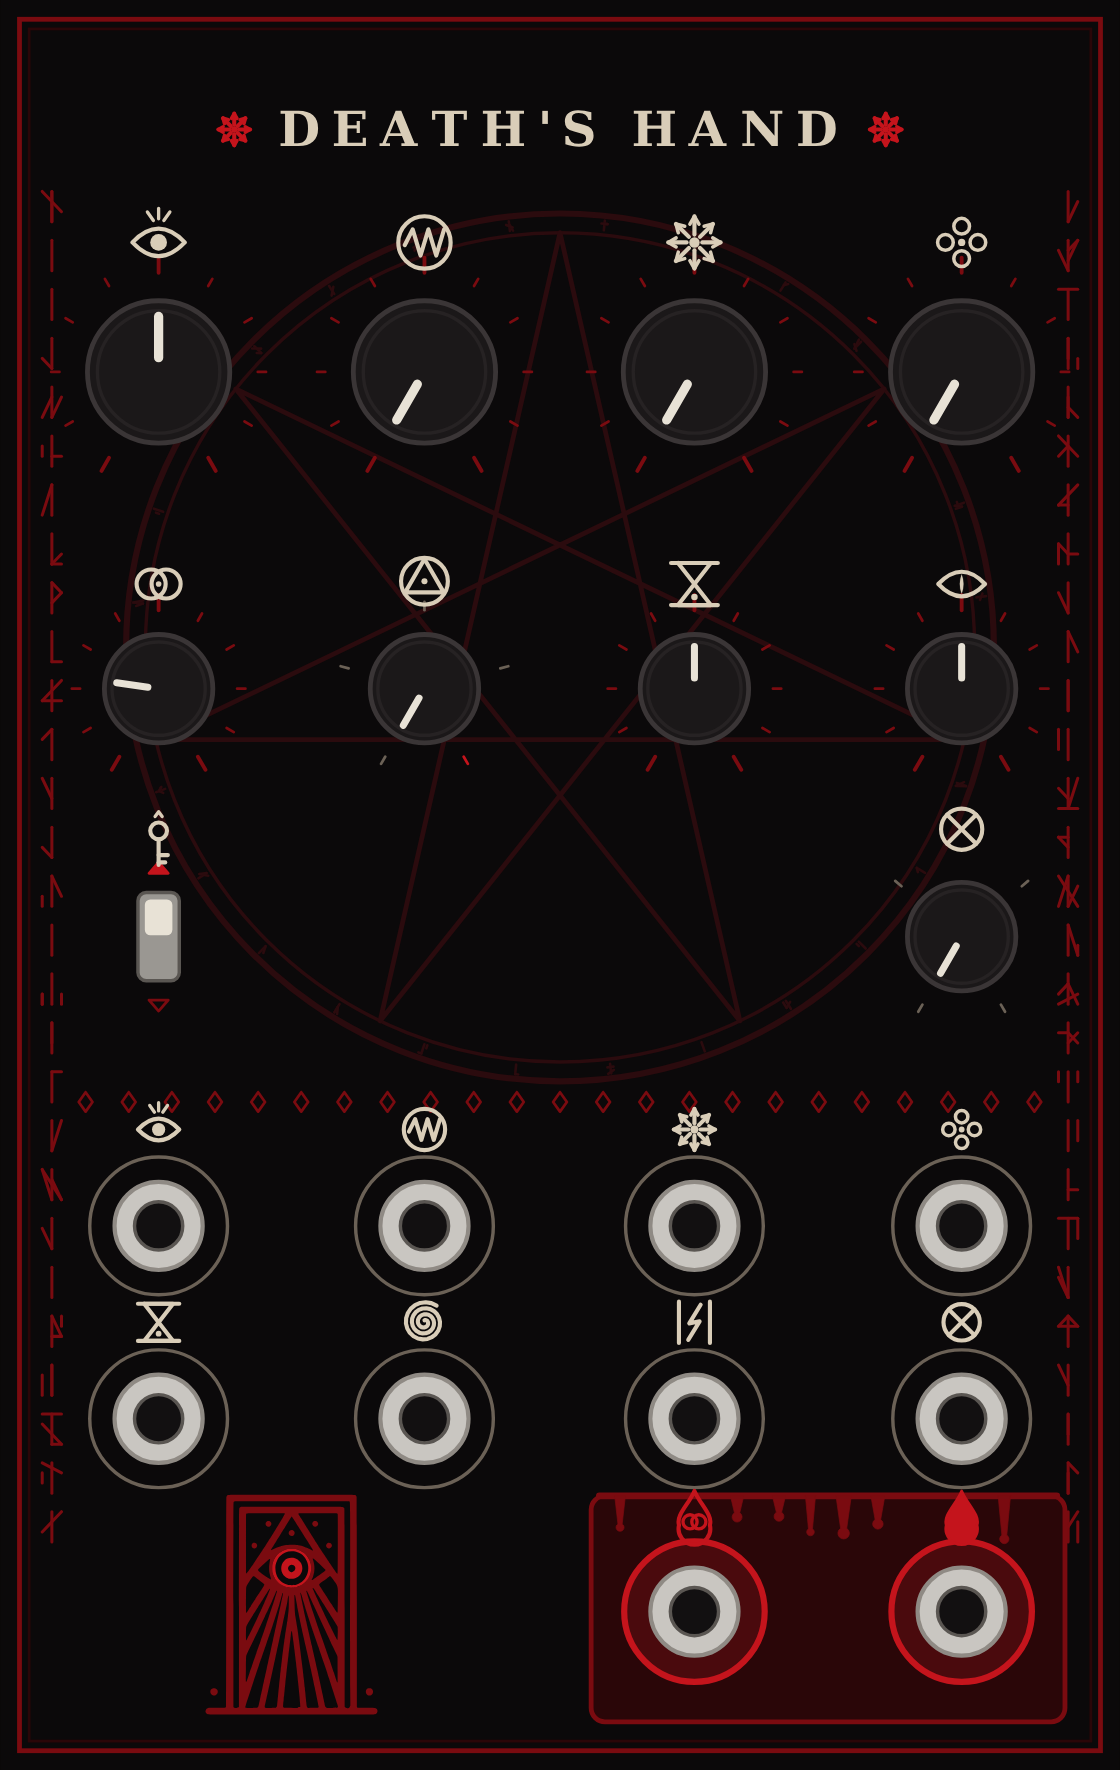
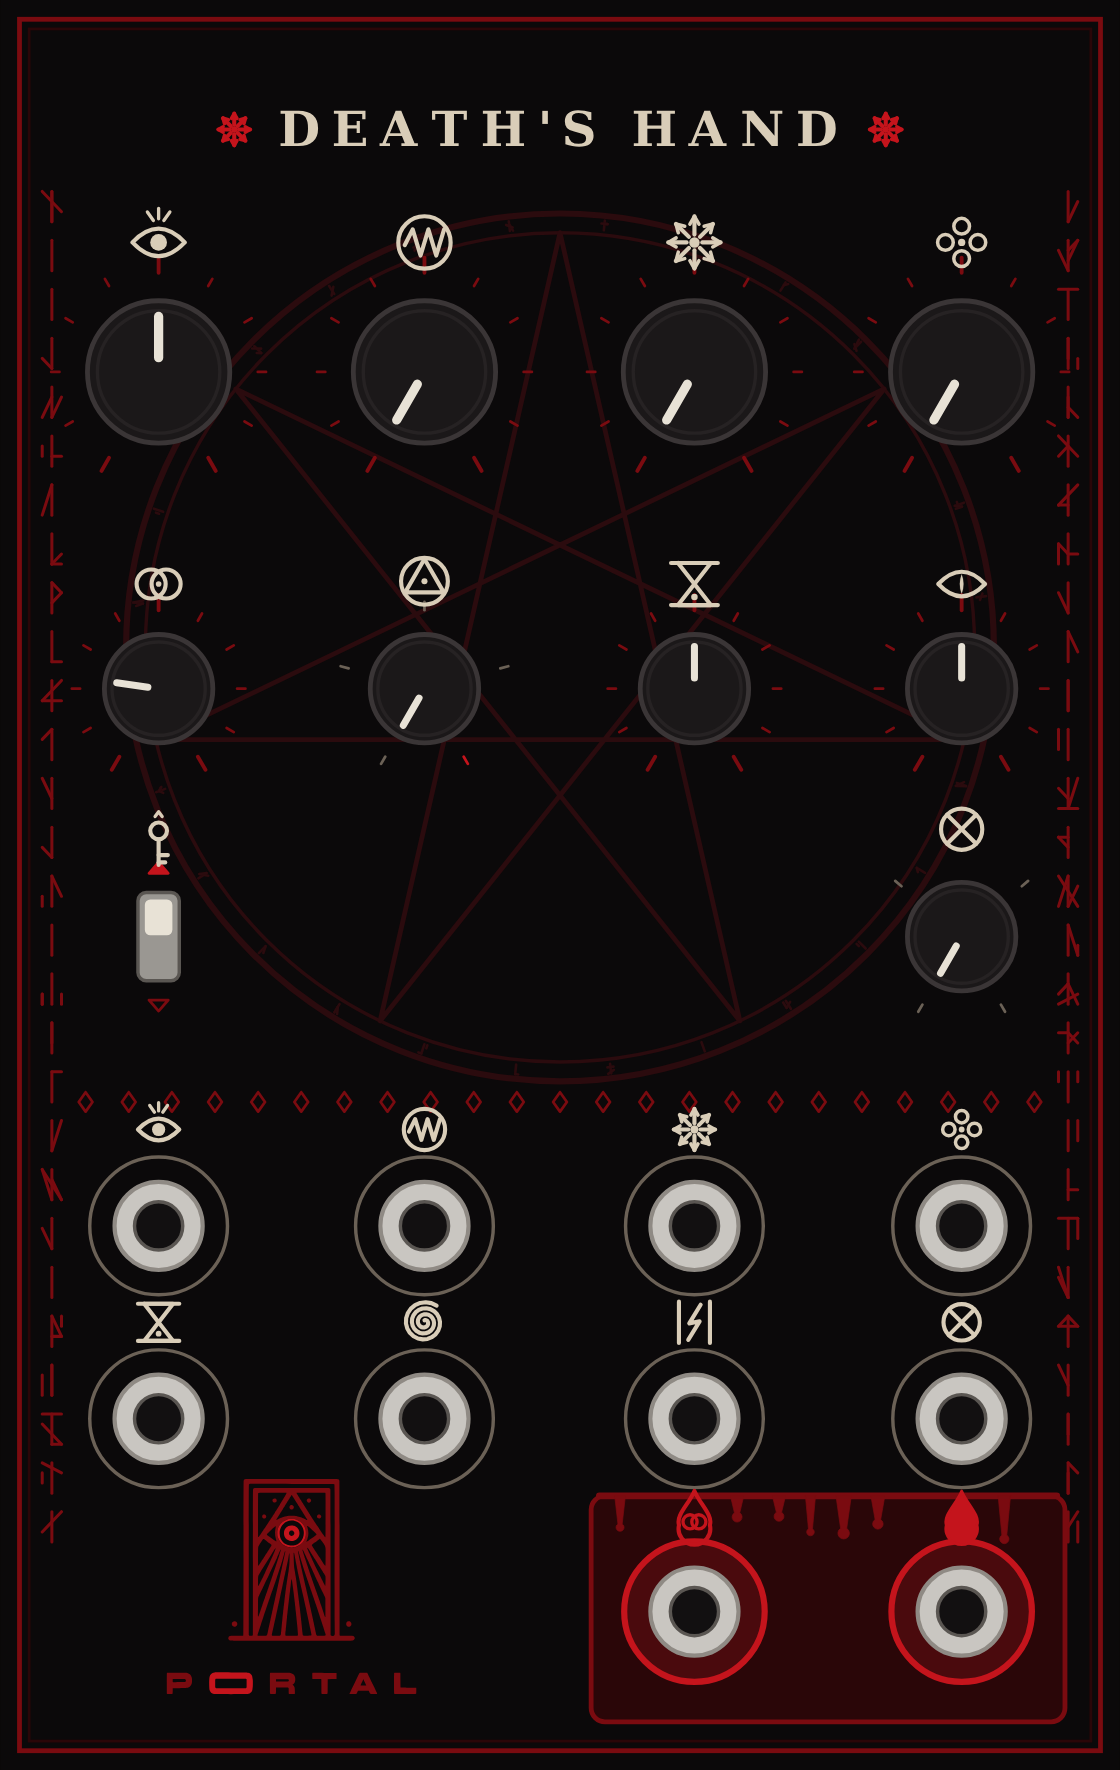
feat: Portal Electronics is the maker; the hand stays Death's Hand's mark
Death's Hand keeps its own mark, the hand. Portal Electronics, the
company, gets its own: the door and the PORTAL wordmark, both traced to
SVG from the original artwork (docs/assets/site/portal.svg and
portal-wordmark.svg) and recoloured bone with blood-red accents.

- Module panel: the door over the wordmark as the maker's mark, read
  from the site's SVGs so they can't drift.
- VCV Rack: plugin.json brand is Portal Electronics.
- Site: a Portal Electronics lockup above the title in the hero, a
  credit in the closing section, and the footer.
- README banner and social card: the same lockup as the maker credit.

Claude-Session: https://claude.ai/code/session_019bjhyBVt8RvJXeHgmiiuiY

Changed region(s): [[0.1562, 0.839, 0.375, 0.9944]]

diff --git a/docs/assets/site/landing.css b/docs/assets/site/landing.css
@@ -387,7 +387,7 @@
   mask-image: radial-gradient(ellipse 60% 70% at 50% 45%, #000 15%, transparent 70%);
   -webkit-mask-image: radial-gradient(ellipse 60% 70% at 50% 45%, #000 15%, transparent 70%);
 }
-.lp-final__logo { width: auto; height: 5.5rem; margin-bottom: 1rem; animation: lp-float 6s ease-in-out infinite; }
+.lp-final__logo { width: 4.2rem; height: 4.2rem; margin-bottom: 1rem; animation: lp-float 6s ease-in-out infinite; }
 
 /* The occult layer: engraved capitals, rune columns, the summoning circle. */
 .md-header__title, .lp-title, .lp h2, .lp-panel h3, .lp-pillar h3, .lp-card h3, .lp-steps h4, .lp-doc b,
@@ -417,8 +417,14 @@
 }
 .lp-final .lp-sigil { left: 50%; top: 50%; width: 36rem; height: 36rem; margin: -18rem 0 0 -18rem; }
 .lp-hero__logo, .lp-final__logo { filter: drop-shadow(0 0 22px color-mix(in srgb, var(--brand) 40%, transparent)) drop-shadow(0 14px 24px rgba(0, 0, 0, 0.55)); }
-.lp-hero__logo { width: auto; height: 7.5rem; }
+.lp-hero__logo { width: 6rem; height: 6rem; }
 .lp-term__bar i:first-child { background: var(--brand-3); }
+
+/* The maker's lockup in the hero: Portal Electronics' door and wordmark. */
+.lp-maker { display: flex; align-items: center; gap: 0.55rem; }
+.lp-maker__door { height: 1.55rem; width: auto; }
+.lp-maker__word { height: 0.62rem; width: auto; }
+.lp-maker span { font-family: var(--md-text-font-family, Inter, sans-serif); font-size: 0.55rem; font-weight: 600; letter-spacing: 0.42em; text-transform: uppercase; color: var(--mist); }
 
 /* The panel and its sigil decoder. */
 .lp-panelart { display: flex; justify-content: center; }

diff --git a/overrides/home.html b/overrides/home.html
@@ -16,7 +16,7 @@
     <div class="lp-wrap lp-hero__inner">
       <div>
         <img class="lp-hero__logo" src="{{ 'assets/site/logo.svg' | url }}" alt="">
-        <p class="lp-kicker">rossedman/deaths-hand</p>
+        <p class="lp-kicker lp-maker"><img class="lp-maker__door" src="{{ 'assets/site/portal.svg' | url }}" alt=""><img class="lp-maker__word" src="{{ 'assets/site/portal-wordmark.svg' | url }}" alt="Portal"><span>Electronics</span></p>
         <h1 class="lp-title">Death's Hand<small>Two oscillators. One will. No mercy.</small></h1>
         <p class="lp-tagline">An evil West-Coast complex oscillator for the <b>Electrosmith patch.Init</b> and <b>VCV Rack</b>: through-zero FM, a wavefolder, ring mod, self-feedback, chaos and a Lorenz heart. <b>One DSP core, measured to the cent.</b></p>
         <div class="lp-install">
@@ -234,7 +234,7 @@ make analyze</code></pre>
     <div class="lp-wrap">
       <img class="lp-final__logo" src="{{ 'assets/site/logo.svg' | url }}" alt="">
       <h2>Give it your hand.</h2>
-      <p class="lp-lede lp-lede--center">Free and open source under the MIT license.</p>
+      <p class="lp-lede lp-lede--center">A Portal Electronics module. Free and open source under the MIT license.</p>
       <div class="lp-cta lp-cta--center">
         <a class="lp-btn lp-btn--primary" href="{{ 'getting-started/' | url }}">Summon it {% include ".icons/material/arrow-right.svg" %}</a>
         <a class="lp-btn" href="{{ gh }}">{% include ".icons/material/source-repository.svg" %} View on GitHub</a>

diff --git a/docs/assets/src/social-preview.html b/docs/assets/src/social-preview.html
@@ -9,11 +9,12 @@
   }
   .sigil { width: 600px; height: 600px; left: 340px; top: -40px; opacity: 0.14; }
   .wrap { position: absolute; inset: 0; display: flex; flex-direction: column; align-items: center; justify-content: center; text-align: center; }
-  .logo { width: auto; height: 270px; filter: drop-shadow(0 0 34px rgba(232,54,63,0.4)) drop-shadow(0 20px 34px rgba(0,0,0,0.6)); }
+  .logo { width: 230px; height: 230px; filter: drop-shadow(0 0 34px rgba(232,54,63,0.4)) drop-shadow(0 20px 34px rgba(0,0,0,0.6)); }
   h1 { margin-top: 26px; font-size: 76px; line-height: 1; color: var(--cream); text-shadow: 0 0 30px rgba(232,54,63,0.3); }
   .promise { margin-top: 18px; font-family: Cinzel, serif; font-size: 28px; font-weight: 600; letter-spacing: 0.1em; color: var(--brand); }
   .sub { margin-top: 16px; font-size: 21px; color: var(--mist); }
   .sub b { color: var(--cream); font-weight: 600; }
+  .by { margin-top: 30px; }
 </style></head>
 <body>
   <div class="sigil"></div>
@@ -23,5 +24,6 @@
     <h1 class="title">Death's Hand</h1>
     <div class="promise">Two oscillators. One will. No mercy.</div>
     <div class="sub">An evil complex oscillator for <b>patch.Init</b> and <b>VCV Rack</b></div>
+    <div class="maker by"><img class="door" src="../site/portal.svg" alt=""><img class="word" src="../site/portal-wordmark.svg" alt="Portal"><span>ELECTRONICS</span></div>
   </div>
 </body></html>

diff --git a/docs/assets/src/banner.html b/docs/assets/src/banner.html
@@ -9,7 +9,7 @@
   }
   .sigil { width: 480px; height: 480px; left: -50px; top: -40px; }
   .wrap { position: absolute; inset: 0; display: flex; align-items: center; padding: 0 72px 0 78px; gap: 34px; }
-  .logo { width: auto; height: 190px; flex: none; filter: drop-shadow(0 0 28px rgba(232,54,63,0.35)) drop-shadow(0 18px 30px rgba(0,0,0,0.6)); }
+  .logo { width: 150px; height: 150px; flex: none; filter: drop-shadow(0 0 28px rgba(232,54,63,0.35)) drop-shadow(0 18px 30px rgba(0,0,0,0.6)); }
   .text { flex: 1; min-width: 0; }
   .kicker { font-size: 16px; color: var(--dim); margin-bottom: 14px; letter-spacing: 0.04em; }
   h1 { font-size: 43px; line-height: 1; white-space: nowrap; color: var(--cream); text-shadow: 0 0 24px rgba(232,54,63,0.25); }
@@ -25,7 +25,7 @@
   <div class="wrap">
     <img class="logo" src="../site/logo.svg" alt="">
     <div class="text">
-      <div class="kicker mono">rossedman/deaths-hand</div>
+      <div class="kicker maker"><img class="door" src="../site/portal.svg" alt=""><img class="word" src="../site/portal-wordmark.svg" alt="Portal"><span>ELECTRONICS</span></div>
       <h1 class="title">Death's Hand</h1>
       <div class="promise">Two oscillators. One will. No mercy.</div>
       <p>An evil complex oscillator for <b>patch.Init</b><br>and <b>VCV Rack</b>, from one DSP core.</p>

diff --git a/docs/assets/src/brand.css b/docs/assets/src/brand.css
@@ -34,6 +34,12 @@ body {
 .mono { font-family: "JetBrains Mono", monospace; font-variant-ligatures: none; }
 .title { font-family: Cinzel, serif; font-weight: 700; letter-spacing: 0.14em; text-transform: uppercase; }
 
+/* The maker: Portal Electronics' door and wordmark. */
+.maker { display: flex; align-items: center; gap: 12px; }
+.maker .door { height: 34px; width: auto; }
+.maker .word { height: 14px; width: auto; }
+.maker span { font-family: Inter, sans-serif; font-size: 11.5px; font-weight: 600; letter-spacing: 0.42em; color: var(--mist); }
+
 /* Rune columns down the edges, as on the panel. */
 .runes { position: absolute; top: 0; bottom: 0; width: 32px; background: url(../site/runes.svg) repeat-y; opacity: 0.32; }
 .runes.l { left: 18px; }

diff --git a/vcv/res/make_panel.py b/vcv/res/make_panel.py
@@ -359,23 +359,25 @@ def drips(x0, x1, y, rng, keep_clear=()):
     return out
 
 
-# The project's mark: the Portal doorway with an eye, read from the site's logo
-# (docs/assets/site/logo.svg) so the panel and the site can't drift apart.
-LOGO = Path(__file__).resolve().parents[2] / "docs" / "assets" / "site" / "logo.svg"
+# The maker's mark: Portal Electronics' doorway over its PORTAL wordmark, read from
+# the site's copies (docs/assets/site/portal*.svg) so panel and site can't drift.
+SITE = Path(__file__).resolve().parents[2] / "docs" / "assets" / "site"
 
 
-def portal_mark(cx, cy, height, logo=None):
-    """The mark, `height` mm tall and centred on (cx, cy), in dried blood with a red eye."""
-    text = Path(logo or LOGO).read_text()
+def svg_art(name, cx, top, height, colours):
+    """An SVG of two filled layers (line art, accent), `height` mm tall, centred on cx."""
+    text = (SITE / name).read_text()
     _, _, w, h = (float(v) for v in re.search(r'viewBox="([^"]+)"', text).group(1).split())
-    lines, eye = re.findall(r' d="([^"]+)"', text)[:2]
     k = height / h
-    return [
-        f'<g transform="translate({f(cx - w * k / 2)} {f(cy - height / 2)}) scale({k:.5f})">',
-        f'<path fill="{BLOOD}" fill-rule="evenodd" d="{lines}"/>',
-        f'<path fill="{BLOOD_HI}" fill-rule="evenodd" d="{eye}"/>',
-        "</g>",
-    ]
+    out = [f'<g transform="translate({f(cx - w * k / 2)} {f(top)}) scale({k:.5f})">']
+    for d, colour in zip(re.findall(r' d="([^"]+)"', text), colours, strict=True):
+        out.append(f'<path fill="{colour}" fill-rule="evenodd" d="{d}"/>')
+    return out + ["</g>"]
+
+
+def makers_mark(cx, top):
+    """The door (12.5 mm) above the wordmark, in dried blood with red accents."""
+    return svg_art("portal.svg", cx, top, 12.5, (BLOOD, BLOOD_HI)) + svg_art("portal-wordmark.svg", cx, top + 14.2, 2.0, (BLOOD, BLOOD_HI))
 
 
 # ----------------------------------------------------------------- panel
@@ -408,8 +410,8 @@ def svg():
         x = 6.2 + i * (W - 12.4) / 22
         out.append(poly([(x, 79.3), (x + 0.5, 80), (x, 80.7), (x - 0.5, 80), (x, 79.3)], color=BLOOD, w=0.2))
 
-    # The mark, in the space left of the altar.
-    out += portal_mark((COLS[0] + COLS[1]) / 2, 116.5, 17.0)
+    # The maker's mark, in the space left of the altar.
+    out += makers_mark((COLS[0] + COLS[1]) / 2, 107.0)
 
     # Output altar.
     ax0, ax1 = COLS[2] - 7.5, COLS[3] + 7.5

diff --git a/docs/panel.md b/docs/panel.md
@@ -1,7 +1,7 @@
 # Reading the panel
 
 <figure class="diagram" markdown>
-![The Death's Hand panel: pitch and the three macro knobs on top under their sigils, four settings knobs below, the ratio-lock key and routing knob, eight inputs, the Portal mark, and the two outputs on a red altar, all over a faint summoning circle.](assets/panel.png){ width="360" }
+![The Death's Hand panel: pitch and the three macro knobs on top under their sigils, four settings knobs below, the ratio-lock key and routing knob, eight inputs, the Portal Electronics maker's mark, and the two outputs on a red altar, all over a faint summoning circle.](assets/panel.png){ width="360" }
 </figure>
 
 There are no words on the panel, only sigils. The top row is the voice: pitch and the three character macros. Below them are the settings the patch.Init keeps on its shift layer. Each sigil repeats on the jack that modulates it, so the panel reads in columns.
@@ -23,7 +23,7 @@ There are no words on the panel, only sigils. The top row is the voice: pitch an
 | Blood drop (solid) | Primary out |
 | Blood drop with rings | Modulator out |
 
-Bone rings mark inputs, red rings mark outputs, and the outputs sit on the altar. The Portal mark, the edge runes and the summoning circle are decoration.
+Bone rings mark inputs, red rings mark outputs, and the outputs sit on the altar. The Portal Electronics maker's mark (the door), the edge runes and the summoning circle are decoration.
 
 ## The macros
 

diff --git a/CHANGELOG.md b/CHANGELOG.md
@@ -6,7 +6,7 @@ All notable changes to this project are documented here. The format follows [Kee
 
 ### Changed
 
-- New mark: the Portal doorway with an eye, traced to SVG from the original artwork, in bone with a blood-red eye. A simplified version (door, triangle and eye) is the favicon and site header logo, where the full mark's rays would blur. The mark replaces the hand on the site, the banner, the social card and the module panel.
+- Death's Hand is a Portal Electronics module. The company's door mark and PORTAL wordmark, traced to SVG from the original artwork, are the maker's mark on the module panel and the credit on the site, the README banner and the social card. In VCV Rack the plugin's brand is now Portal Electronics. The hand stays Death's Hand's own mark.
 
 ## 0.1.1
 

diff --git a/README.md b/README.md
@@ -11,6 +11,8 @@
 
 # Death's Hand
 
+*A Portal Electronics module.*
+
 **[Listen to it →](https://rossedman.io/deaths-hand/listen/)** Fourteen renders from the same DSP the module runs.
 
 An evil West-Coast style complex oscillator for the Electrosmith patch.Init and VCV Rack — two oscillators where the modulator
@@ -69,7 +71,8 @@ the panel reads in columns.
 | Blood drop with rings | Modulator out |
 
 Bone rings mark inputs, red rings mark outputs, and the outputs sit on the
-altar. The Portal mark, the edge runes and the summoning circle are decoration.
+altar. The Portal Electronics maker's mark (the door), the edge runes and the
+summoning circle are decoration.
 
 ## The macros
 
